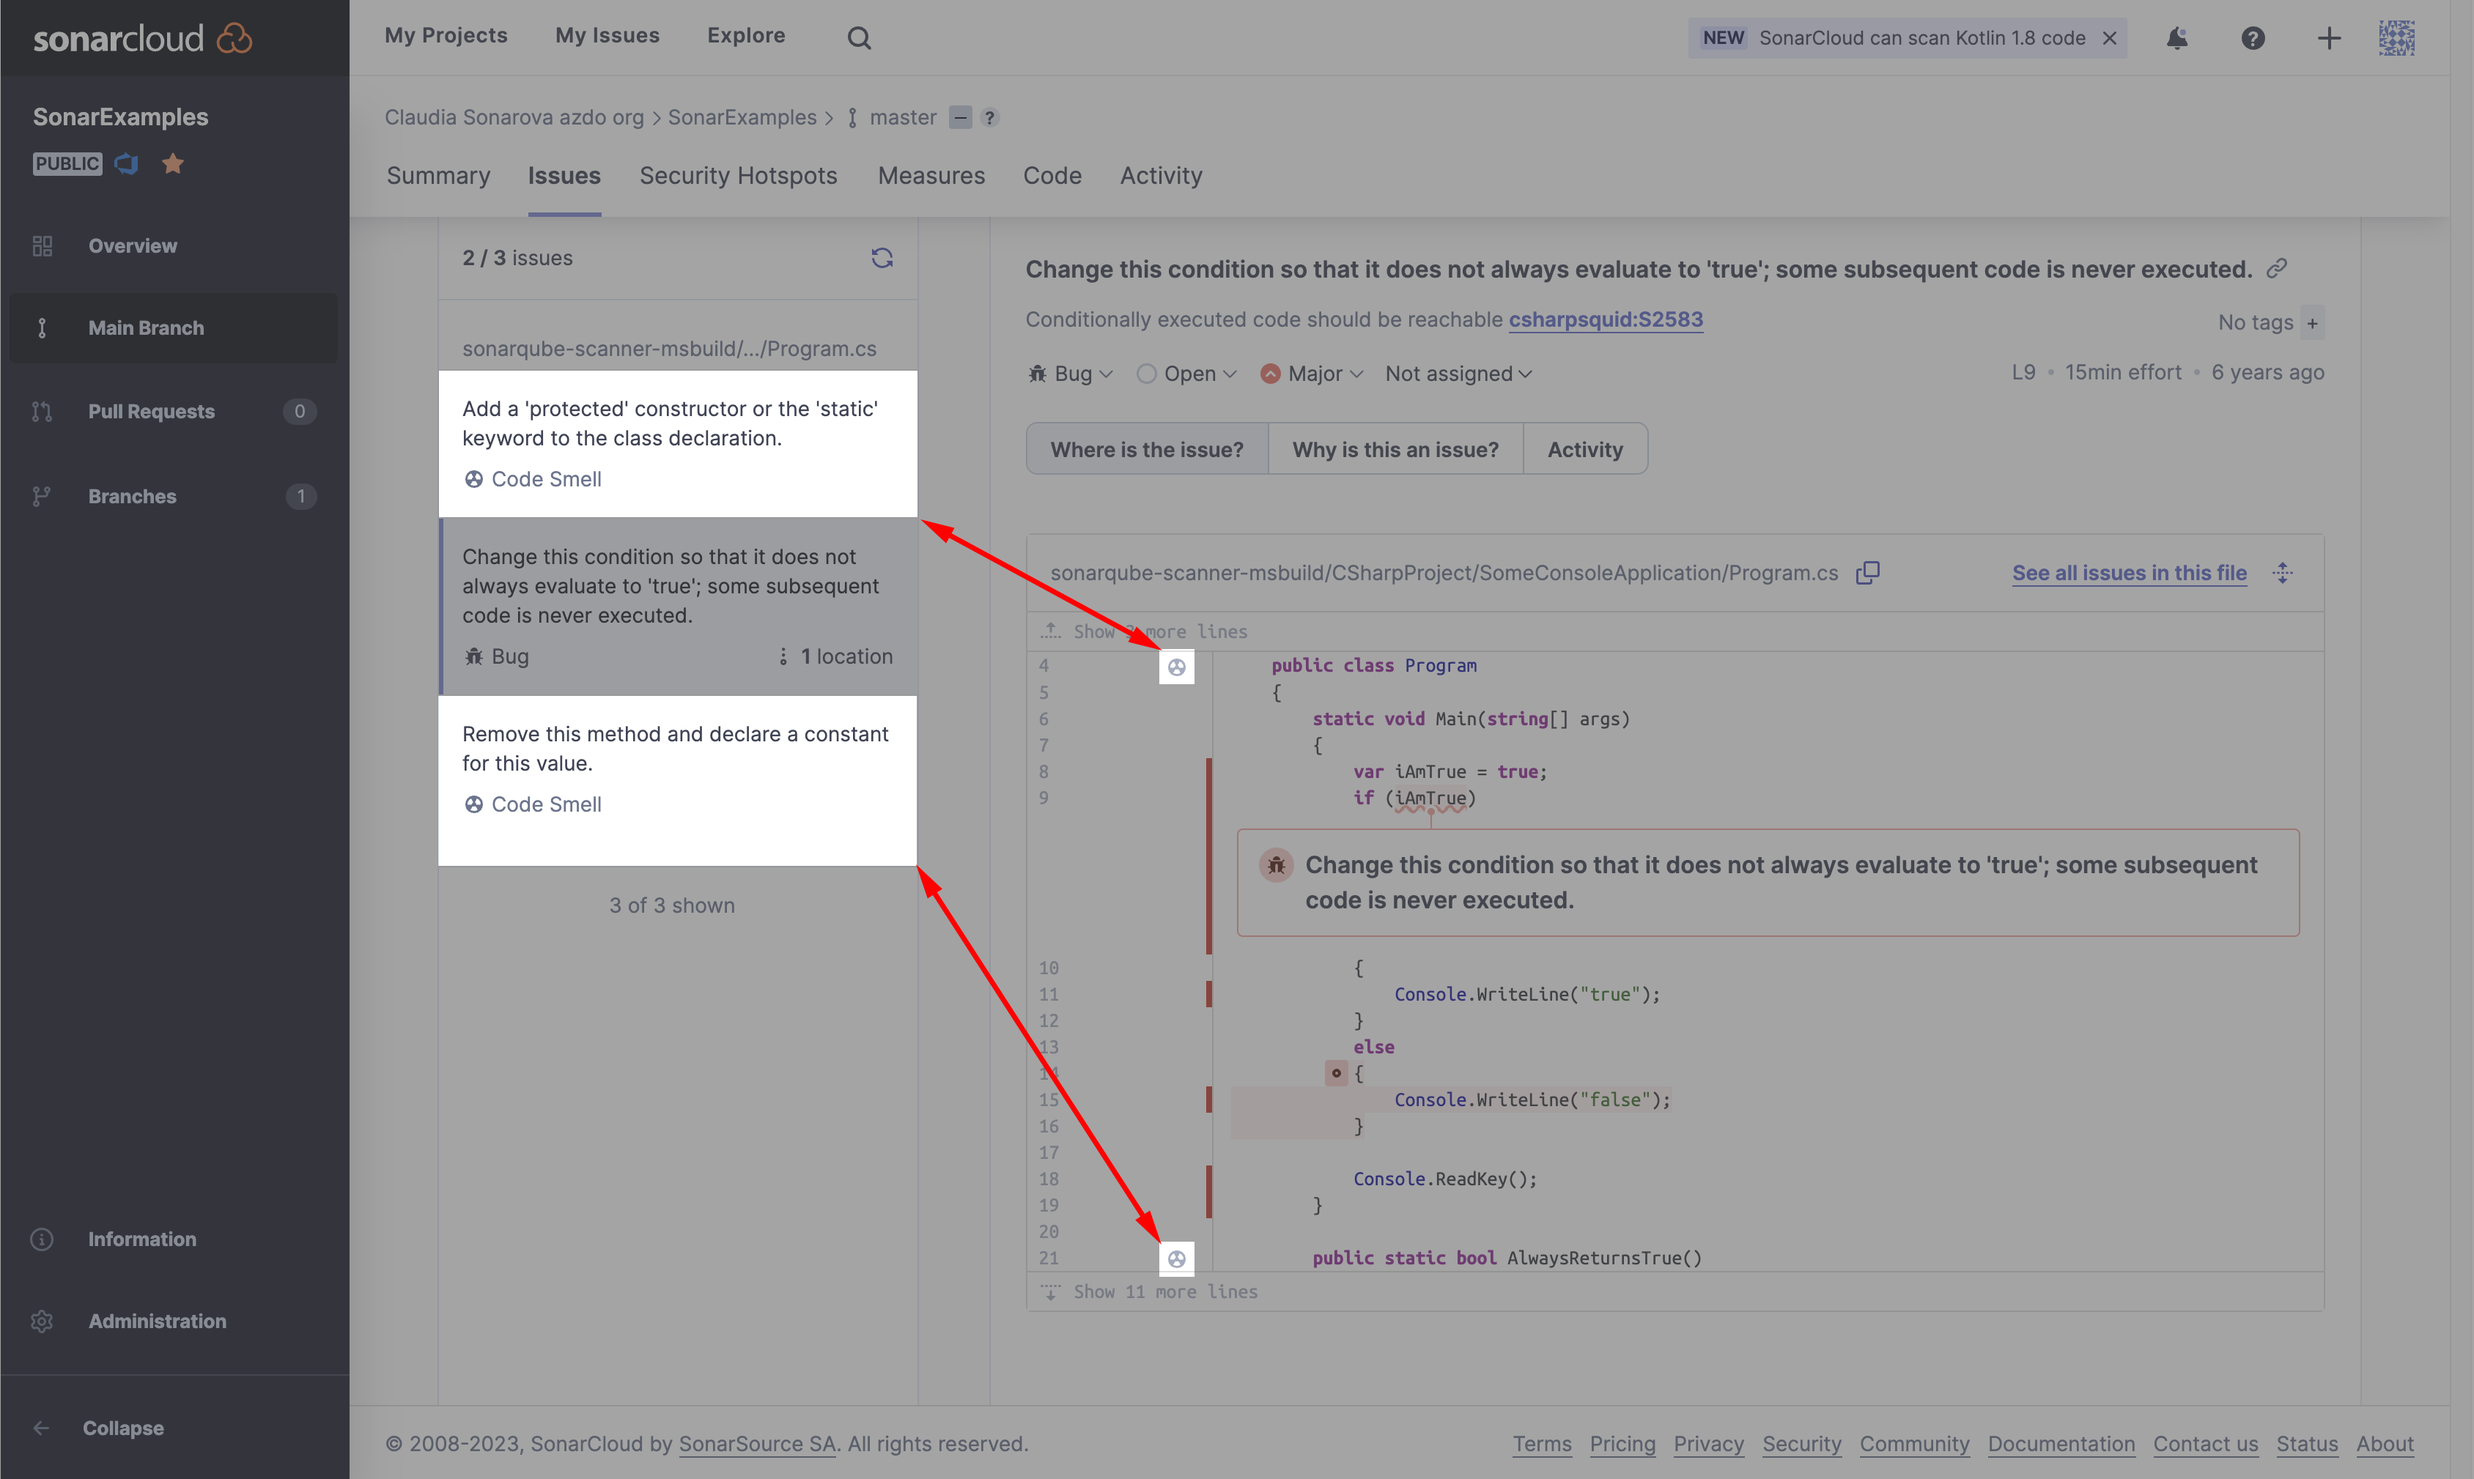
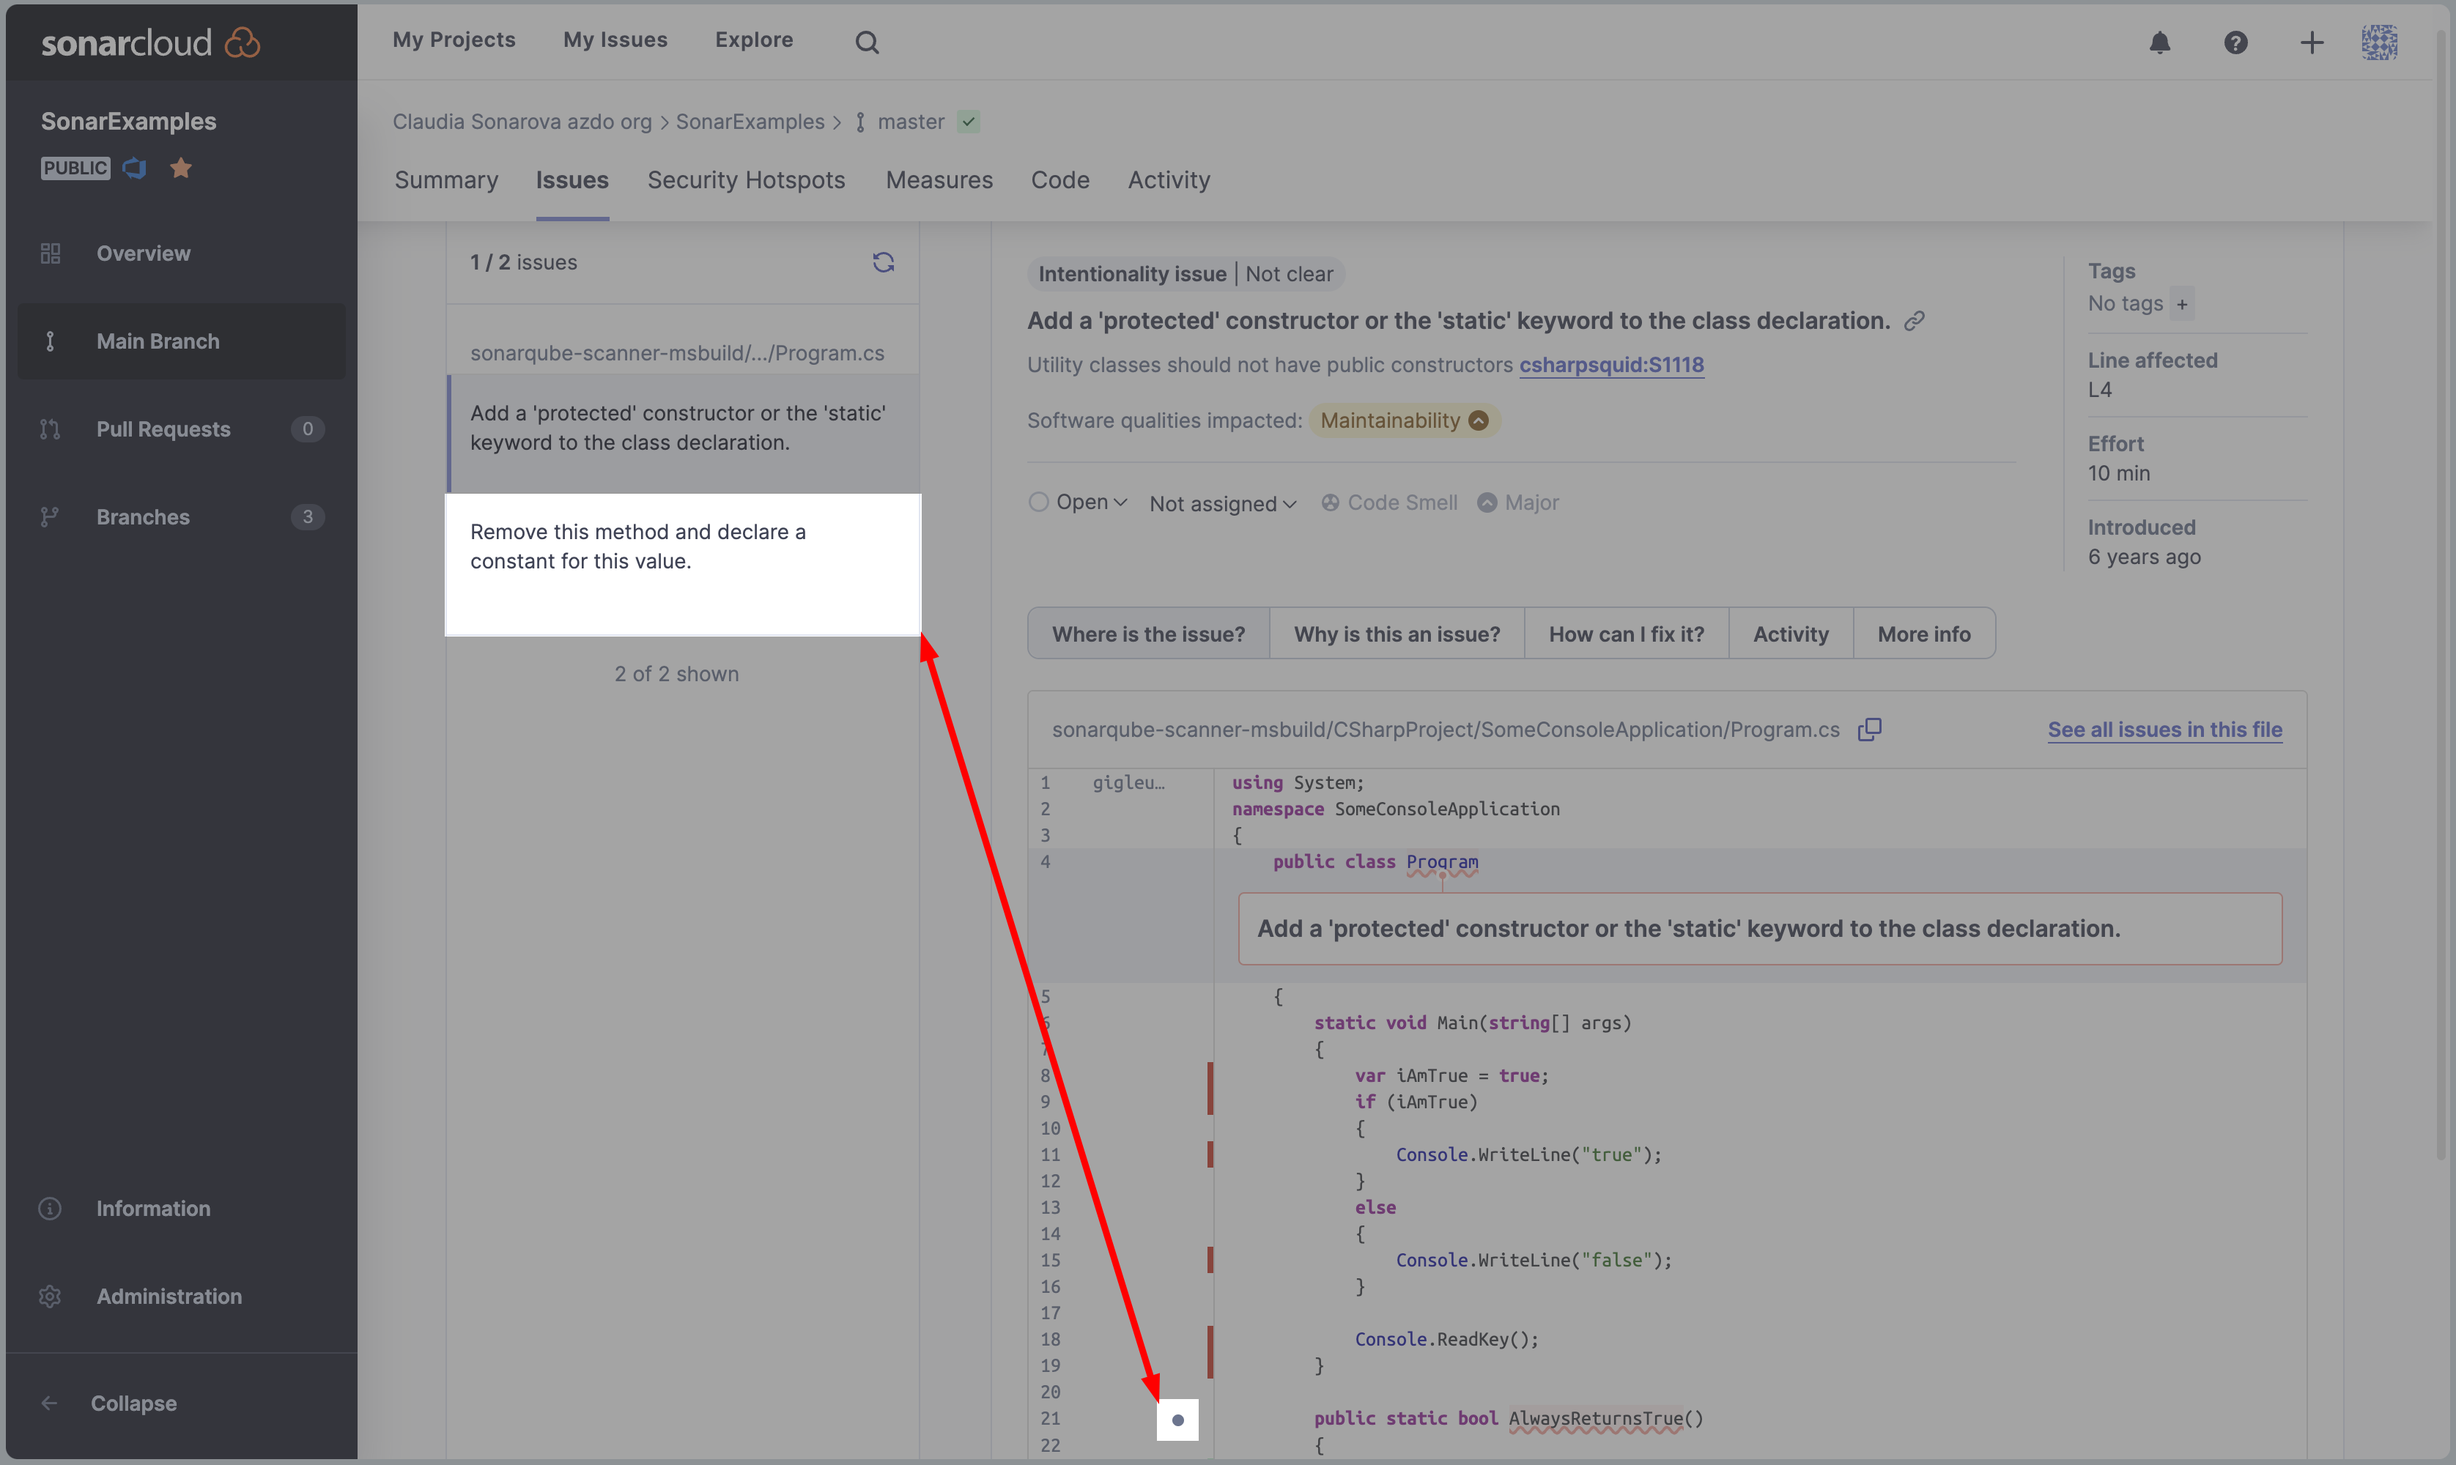
complete image and text hardening

diff --git a/labs/vstsextend/sonarcloud/readme.md b/labs/vstsextend/sonarcloud/readme.md
@@ -272,15 +272,15 @@ In Exercise 2, we will look at what to do with those reports in SonarCloud.
 
 ## Exercise 2: Review SonarCloud Reports
 
-Continuing to use the **SonarExamples** project to illustrate concepts in this tutorial, navigate in SonarCloud to **My Project** > **SonarExamples** and go to the **Summary** page by selecting **Main Branch**. 
+Let's keep using the **SonarExamples** project to illustrate concepts in this tutorial. In SonarCloud, navigate to **My Project** > **SonarExamples** and go to the **Summary** page by selecting **Main Branch**. 
 
 ![Overview page](images/2/sonarcloud-overview.png)
 
-In the **Reliability** container, we can see a bug has been found.
+In the **Maintainability** container, we can see that two code smells have been found.
 
-![Bug found](images/2/sonarcloud-bug-found.png)
+![Code Smell found](images/2/sonarcloud-code-smell-found.png)
 
-The **Summary** page has other metrics such as **Vulnerabilities**, **Coverage**, **Code Smells**, **Security Hotspots**, **Duplications**, and will tell you how many **Lines of Code** you are using in this project. The following table briefly explains each of these terms.
+The **Summary** page has other metrics such as **Vulnerabilities**, **Coverage**, **Code Smells**, **Security Hotspots**, **Duplications**, and will tell you how many **Lines of Code** you are using in this project. The following table briefly explains each of those terms.
 
 | Terms | Description |
 | --- | --- |
@@ -291,25 +291,25 @@ The **Summary** page has other metrics such as **Vulnerabilities**, **Coverage**
 | **Duplications** | The duplications decoration shows which parts of the source code are duplicated |
 | **Lines of Code** | Provides a count of lines of code being analyzed within the project; including the number of statements, functions, classes, files, and directories |
 
-{% include important.html content= "Notice that a letter **C** grade is displayed alongside the bug count; this is the **Reliability Rating**. The grade **C** indicates that there is **at least 1 major bug** in this code. For more information on reliability ratings, check out our page on [Metric Definitions](https://docs.sonarcloud.io/digging-deeper/metric-definitions/#reliability). For information about how issues are defined by those metric definitions, see [here](https://docs.sonarcloud.io/digging-deeper/issues/); and also check out the information on [rule types and severities](https://docs.sonarcloud.io/digging-deeper/rules/#rule-types-and-severities) for more details about those topics." %}
+{% include important.html content= "Notice, inside of the **Reliability** container that a letter **C** grade is displayed alongside the bug count; this is the **Reliability Rating**. The grade **C** indicates that there is *at least 1 major bug* in this code. For more information on reliability ratings, check out our page on [Metric Definitions](https://docs.sonarcloud.io/digging-deeper/metric-definitions/#reliability). For information about how issues are defined by those metric definitions, see [here](https://docs.sonarcloud.io/digging-deeper/issues/); and also check out the information on [rule types and severities](https://docs.sonarcloud.io/digging-deeper/rules/#rule-types-and-severities) for more details about those topics." %}
 
-1. Click on the **Bugs** count number to open the **Issues** page with the Bug filter applied:
+1. Click on the **Code Smells** count number to open the **Issues** page with the Code Smell type filter applied:
 
-   ![Click on bugs](images/2/sonarcloud-issues-bugs.png)
+   ![Click on Code Smells](images/2/sonarcloud-issues-code-smells.png)
 
-2. Click on the issue to navigate to the code. This bug is on line number 9 of the `Program.cs` file (note the breadcrumb in the UI): **Change this condition so that it does not always evaluate to 'true'; some subsequent code is never executed.**:
+2. Click on the issue to navigate to the code. If you select the first issue, you fill find that it is on line number 4 of the `Program.cs` file (note the breadcrumb in the UI): **Add a 'protected' constructor or the 'static' keyword to the class declaration.**:
 
-   ![Bug details](images/2/sonarcloud-bug-in-code.png)
+   ![Issue details](images/2/sonarcloud-code-smell-in-code.png)
 
 3. We can also see which lines of code are *not covered* by tests; hover over those red lines to see a pop-up message giving you more details:
 
    ![Test coverage](images/2/sonarcloud-not-covered-by-tests.png)
 
-   And you can select and review other issues nearby (in your code) by clicking on the issue list (in teh left menu) or on the type icons (in the code explorer):
+   And you can select and review other issues nearby (in your code) by clicking on the issue list (in the left menu) or on the grey dot (in the code explorer):
 
-   ![Nearby issues](images/2/sonarcloud-nearby-issues.png)
+   ![Nearby issues](images/2/sonarcloud-nearby-issues.png) 
 
-Our sample project is very small and has no historical data. However, there are thousands of [public projects on SonarCloud](https://sonarcloud.io/explore/projects){:target="\_blank"} that have more interesting and realistic results. Go have a look!
+Our sample project is very small and has no historical data but, there are thousands of [public projects on SonarCloud](https://sonarcloud.io/explore/projects){:target="\_blank"} that have more interesting and realistic results. Go have a look!
 
 
 
